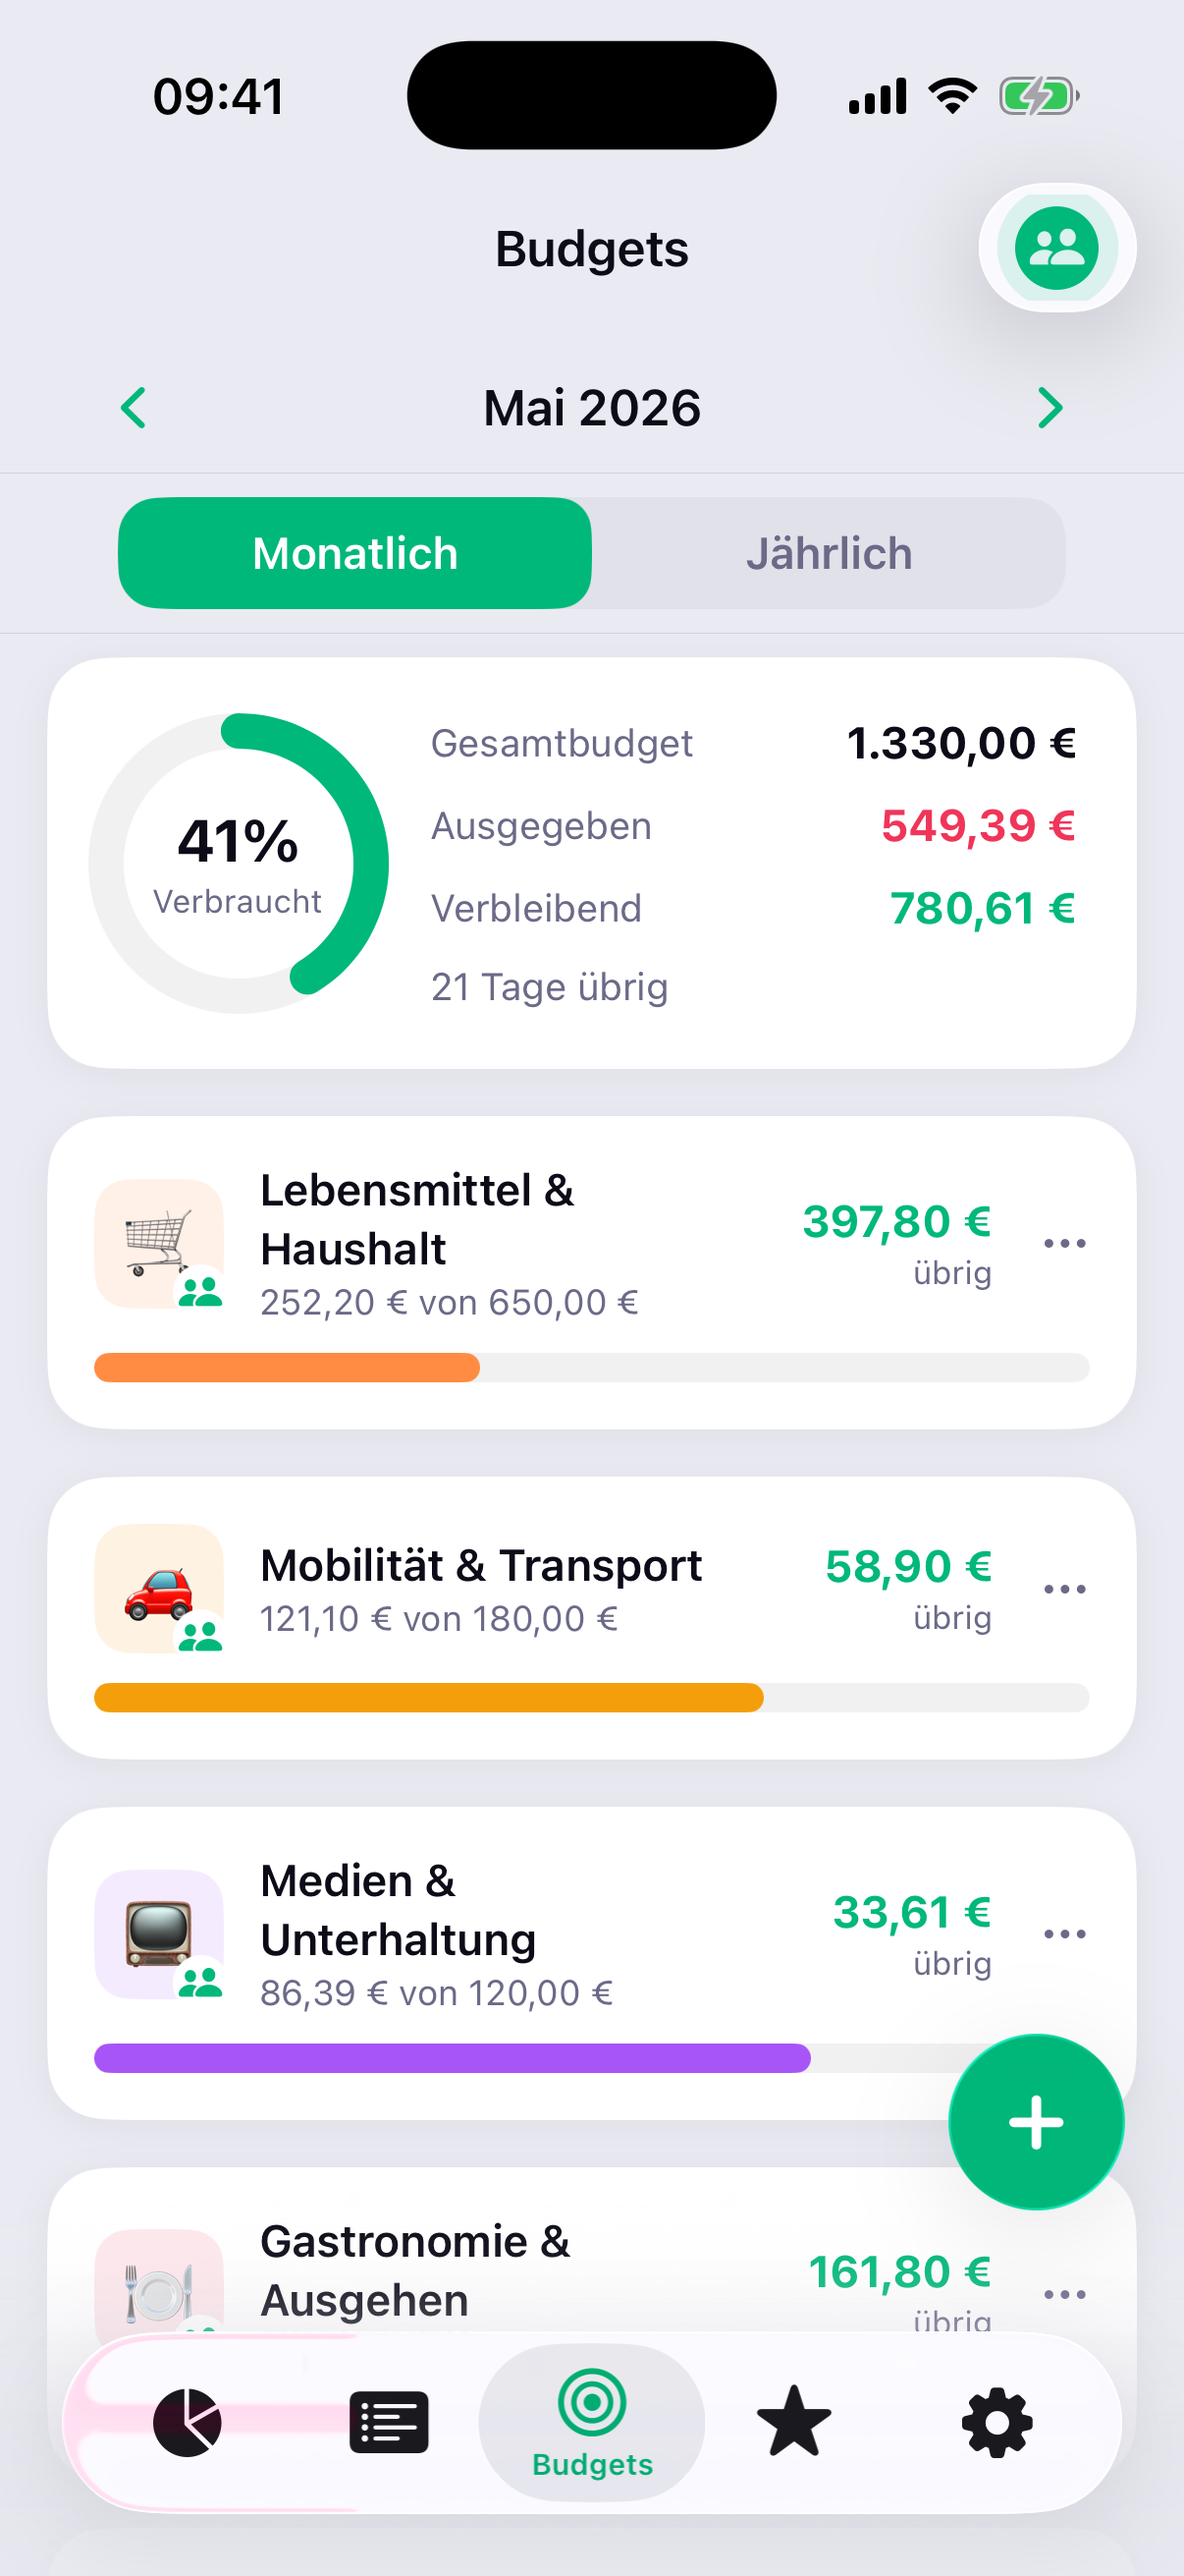
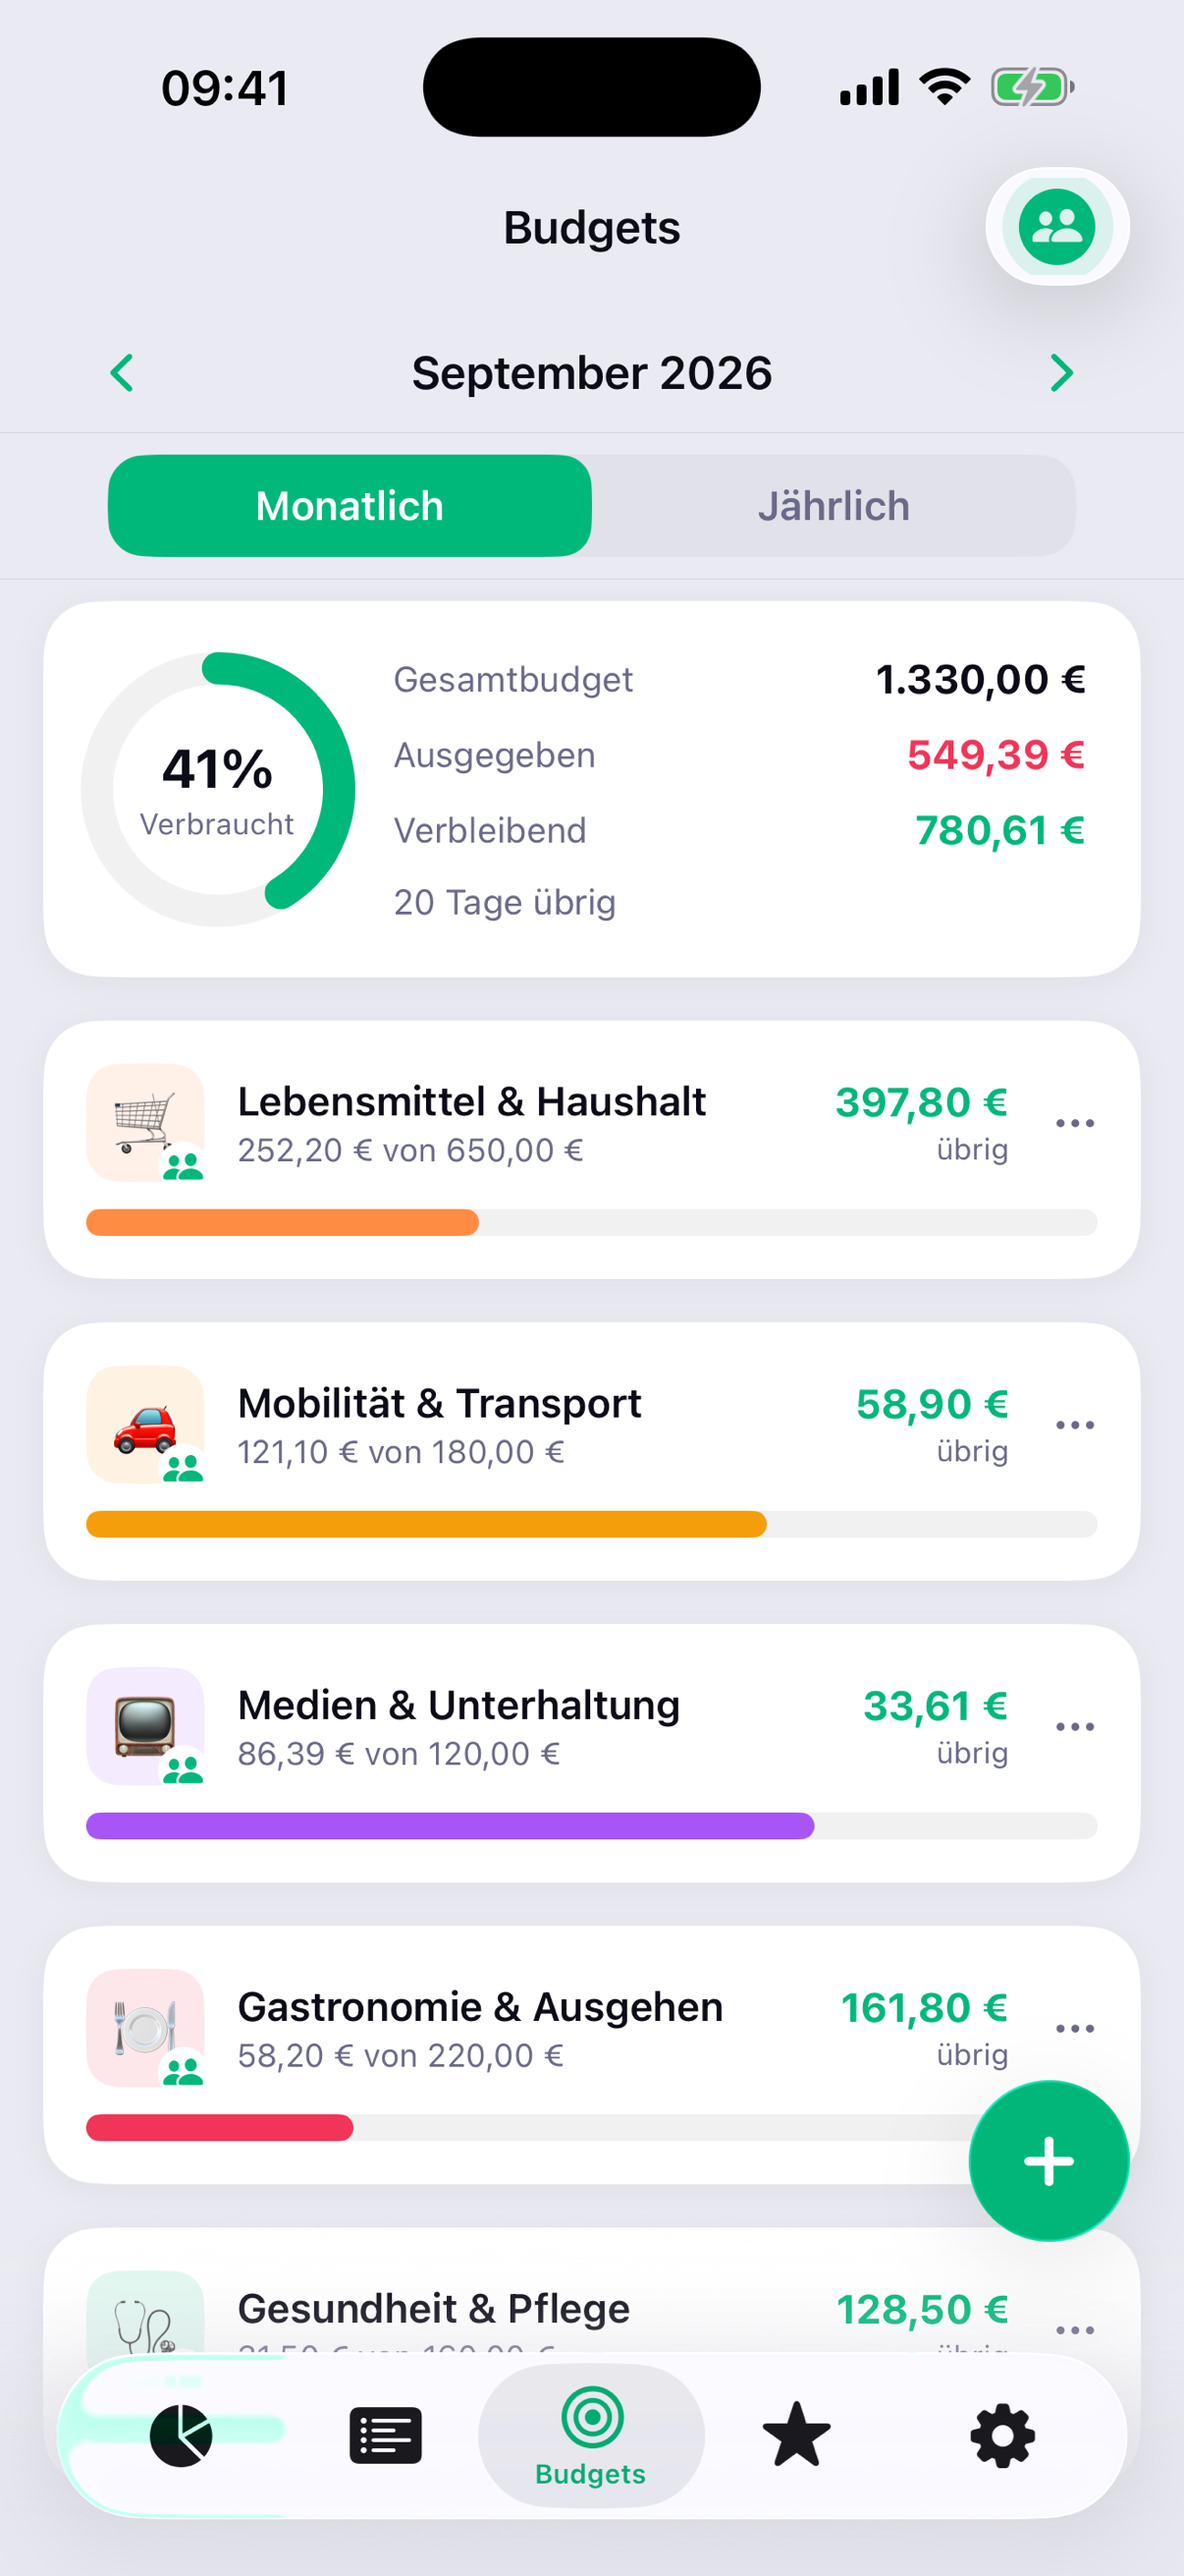
Finovo page: new screenshots, sharper positioning, fix iPhone-only FAQ
- Replace all 12 DE/EN screenshots with the September set (App Lock, corrected
  planned-transaction rows, 9,99 €/0,99 € paywall, consistent goal balances)
- Hero, three new feature cards (on-device intelligence, app lock, CSV in & out),
  two comparison rows, on-device sentence in the privacy section, plan bullets
- New FAQs: how the AI works, data export
- Fix FAQ claim: Finovo is iPhone-only (iOS 26+); iPad/Mac are on the roadmap

diff --git a/apps/finovo/index.html b/apps/finovo/index.html
@@ -1261,8 +1261,8 @@
     <span class="i18n-en">Your money, <span class="green">handled.</span></span>
   </h1>
   <p class="hero-sub">
-    <span class="i18n-de">Die smarte Haushalts-App für iOS. Ausgaben tracken, Budgets planen, gemeinsam sparen – privat gestaltet und DSGVO-orientiert.</span>
-    <span class="i18n-en">The smart personal-finance app for iOS. Track spending, plan budgets, save together — designed for privacy and GDPR-aware use.</span>
+    <span class="i18n-de">Die Haushalts-App für iOS, die ohne Bank-Login auskommt. Ausgaben tracken, Budgets planen, fair zu zweit teilen – mit Intelligenz auf dem Gerät statt in der Cloud, privat gestaltet und DSGVO-orientiert.</span>
+    <span class="i18n-en">The iOS budgeting app that never asks for your bank login. Track spending, plan budgets, split fairly as a couple — with intelligence on your device instead of in the cloud, designed for privacy and GDPR-aware use.</span>
   </p>
 
   <a href="#" class="appstore-btn">
@@ -1492,6 +1492,27 @@
       <h3><span class="i18n-de">Privatsphäre first</span><span class="i18n-en">Privacy first</span></h3>
       <p><span class="i18n-de">Keine Server, keine Analytik, keine Werbung. Deine Daten gehören dir.</span><span class="i18n-en">No servers, no analytics, no ads. Your data stays yours.</span></p>
     </div>
+    <div class="feature-card reveal">
+      <div class="feature-icon">
+        <svg width="22" height="22" viewBox="0 0 24 24" fill="none" stroke="#16A34A" stroke-width="2" stroke-linecap="round" stroke-linejoin="round"><rect x="4" y="4" width="16" height="16" rx="2" ry="2"/><rect x="9" y="9" width="6" height="6"/><line x1="9" y1="1" x2="9" y2="4"/><line x1="15" y1="1" x2="15" y2="4"/><line x1="9" y1="20" x2="9" y2="23"/><line x1="15" y1="20" x2="15" y2="23"/><line x1="20" y1="9" x2="23" y2="9"/><line x1="20" y1="14" x2="23" y2="14"/><line x1="1" y1="9" x2="4" y2="9"/><line x1="1" y1="14" x2="4" y2="14"/></svg>
+      </div>
+      <h3><span class="i18n-de">KI auf dem Gerät</span><span class="i18n-en">On-device intelligence</span></h3>
+      <p><span class="i18n-de">Monatseinblicke, Suche in natürlicher Sprache und Kategorievorschläge – mit Apple Intelligence direkt auf deinem iPhone. Kein Cloud-Modell, nichts verlässt das Gerät.</span><span class="i18n-en">Monthly insights, natural-language search and category suggestions — powered by Apple Intelligence right on your iPhone. No cloud model, nothing leaves the device.</span></p>
+    </div>
+    <div class="feature-card reveal">
+      <div class="feature-icon">
+        <svg width="22" height="22" viewBox="0 0 24 24" fill="none" stroke="#16A34A" stroke-width="2" stroke-linecap="round" stroke-linejoin="round"><path d="M12 22s8-4 8-10V5l-8-3-8 3v7c0 6 8 10 8 10z"/></svg>
+      </div>
+      <h3><span class="i18n-de">App-Sperre</span><span class="i18n-en">App lock</span></h3>
+      <p><span class="i18n-de">Face ID, Touch ID oder Gerätecode beim Öffnen – und ein Sichtschutz im App-Umschalter. Deine Zahlen bleiben deine Zahlen.</span><span class="i18n-en">Face ID, Touch ID or passcode on launch — plus a privacy shield in the app switcher. Your numbers stay yours.</span></p>
+    </div>
+    <div class="feature-card reveal">
+      <div class="feature-icon">
+        <svg width="22" height="22" viewBox="0 0 24 24" fill="none" stroke="#16A34A" stroke-width="2" stroke-linecap="round" stroke-linejoin="round"><path d="M14 2H6a2 2 0 0 0-2 2v16a2 2 0 0 0 2 2h12a2 2 0 0 0 2-2V8z"/><polyline points="14 2 14 8 20 8"/><line x1="16" y1="13" x2="8" y2="13"/><line x1="16" y1="17" x2="8" y2="17"/></svg>
+      </div>
+      <h3><span class="i18n-de">CSV rein & raus</span><span class="i18n-en">CSV in & out</span></h3>
+      <p><span class="i18n-de">Bankumsätze aus DKB, N26, Revolut & Co. importieren, Duplikate automatisch erkennen – und jederzeit alles als CSV oder Backup exportieren.</span><span class="i18n-en">Import bank exports from DKB, N26, Revolut and more with automatic duplicate detection — and export everything as CSV or a backup anytime.</span></p>
+    </div>
   </div>
 </div>
 
@@ -1538,13 +1559,23 @@
       <div class="col-us"><span class="compare-check">✓</span></div>
       <div class="col-them"><span class="compare-text"><span class="i18n-de">meist Abo</span><span class="i18n-en">often paywalled</span></span></div>
     </div>
+    <div class="compare-row">
+      <div class="col-feat"><span class="i18n-de">KI-Einblicke ohne Cloud-Modell</span><span class="i18n-en">AI insights without a cloud model</span></div>
+      <div class="col-us"><span class="compare-check">✓</span></div>
+      <div class="col-them"><span class="compare-text"><span class="i18n-de">Cloud-KI</span><span class="i18n-en">cloud AI</span></span></div>
+    </div>
+    <div class="compare-row">
+      <div class="col-feat"><span class="i18n-de">Alles jederzeit als CSV &amp; Backup exportierbar</span><span class="i18n-en">Export everything as CSV &amp; backup anytime</span></div>
+      <div class="col-us"><span class="compare-check">✓</span></div>
+      <div class="col-them"><span class="compare-text"><span class="i18n-de">teils</span><span class="i18n-en">partly</span></span></div>
+    </div>
   </div>
 </div>
 
 <!-- PRIVACY -->
 <div class="privacy-section">
   <h2 class="reveal"><span class="i18n-de">Deine Daten gehören dir.</span><span class="i18n-en">Your data stays yours.</span></h2>
-  <p class="reveal"><span class="i18n-de">Kein Server. Keine Analyse. Keine Werbung. Finovo speichert deine Daten lokal zuerst auf deinem iPhone; iCloud Sync nutzt nur deine persönliche iCloud.</span><span class="i18n-en">No servers. No analytics. No ads. Finovo stores your data local-first on your iPhone; iCloud Sync uses only your personal iCloud.</span></p>
+  <p class="reveal"><span class="i18n-de">Kein Server. Keine Analyse. Keine Werbung. Finovo speichert deine Daten lokal zuerst auf deinem iPhone; iCloud Sync nutzt nur deine persönliche iCloud. Auch die intelligenten Funktionen laufen mit Apple Intelligence direkt auf dem Gerät – ohne Cloud-Modell.</span><span class="i18n-en">No servers. No analytics. No ads. Finovo stores your data local-first on your iPhone; iCloud Sync uses only your personal iCloud. Even the intelligent features run with Apple Intelligence right on the device — no cloud model involved.</span></p>
   <div class="privacy-pills reveal">
     <div class="privacy-pill"><span class="pill-icon">🔒</span> <span class="i18n-de">Lokal zuerst</span><span class="i18n-en">Local-first</span></div>
     <div class="privacy-pill"><span class="pill-icon">✅</span> <span class="i18n-de">DSGVO-konform</span><span class="i18n-en">GDPR-compliant</span></div>
@@ -1573,6 +1604,9 @@
         <li><div class="check"><svg viewBox="0 0 10 10"><polyline points="1.5,5 4,7.5 8.5,2"/></svg></div><span class="i18n-de">Persönliche Sparziele verfolgen</span><span class="i18n-en">Personal savings goals</span></li>
         <li><div class="check"><svg viewBox="0 0 10 10"><polyline points="1.5,5 4,7.5 8.5,2"/></svg></div><span class="i18n-de">iCloud Sync (eigene Geräte)</span><span class="i18n-en">iCloud Sync across your devices</span></li>
         <li><div class="check"><svg viewBox="0 0 10 10"><polyline points="1.5,5 4,7.5 8.5,2"/></svg></div><span class="i18n-de">Jahresübersicht &amp; Prognose</span><span class="i18n-en">Yearly overview &amp; forecast</span></li>
+        <li><div class="check"><svg viewBox="0 0 10 10"><polyline points="1.5,5 4,7.5 8.5,2"/></svg></div><span class="i18n-de">KI-Einblicke auf dem Gerät (Apple Intelligence)</span><span class="i18n-en">On-device AI insights (Apple Intelligence)</span></li>
+        <li><div class="check"><svg viewBox="0 0 10 10"><polyline points="1.5,5 4,7.5 8.5,2"/></svg></div><span class="i18n-de">App-Sperre mit Face ID / Touch ID</span><span class="i18n-en">App lock with Face ID / Touch ID</span></li>
+        <li><div class="check"><svg viewBox="0 0 10 10"><polyline points="1.5,5 4,7.5 8.5,2"/></svg></div><span class="i18n-de">CSV-Import &amp; -Export</span><span class="i18n-en">CSV import &amp; export</span></li>
       </ul>
     </div>
 
@@ -1618,9 +1652,17 @@
       <div class="faq-body"><span class="i18n-de">Ja, jederzeit direkt in den iOS-Abo-Einstellungen. Bereits erfasste Daten bleiben erhalten, nur die Partner-Funktionen werden deaktiviert.</span><span class="i18n-en">Yes, anytime directly in your iOS subscription settings. Your data stays; only Partner features are disabled.</span></div>
     </details>
     <details class="faq-item">
-      <summary><span class="i18n-de">Läuft Finovo auf iPad und Mac?</span><span class="i18n-en">Does Finovo run on iPad and Mac?</span></summary>
-      <div class="faq-body"><span class="i18n-de">Ja. Finovo ist eine Universal-App für iPhone, iPad und Mac (Apple Silicon) mit iCloud Sync auf allen deinen Geräten.</span><span class="i18n-en">Yes. Finovo is a universal app for iPhone, iPad and Mac (Apple Silicon) with iCloud Sync across all your devices.</span></div>
-    </details>
+  <summary><span class="i18n-de">Läuft Finovo auf iPad und Mac?</span><span class="i18n-en">Does Finovo run on iPad and Mac?</span></summary>
+  <div class="faq-body"><span class="i18n-de">Finovo ist für das iPhone entwickelt (iOS 26 oder neuer). iPad und Mac stehen auf der Roadmap.</span><span class="i18n-en">Finovo is built for iPhone (iOS 26 or later). iPad and Mac are on the roadmap.</span></div>
+</details>
+<details class="faq-item">
+  <summary><span class="i18n-de">Wie funktionieren die KI-Funktionen?</span><span class="i18n-en">How do the AI features work?</span></summary>
+  <div class="faq-body"><span class="i18n-de">Monatseinblicke, Suche in natürlicher Sprache, Kategorievorschläge und das Bereinigen von Händlernamen laufen mit Apple Intelligence direkt auf deinem iPhone. Es wird kein Cloud-Modell angesprochen und nichts übertragen. Auf Geräten ohne Apple Intelligence – oder wenn du die Funktionen in den Einstellungen ausschaltest – nutzt Finovo einfache, regelbasierte Alternativen.</span><span class="i18n-en">Monthly insights, natural-language search, category suggestions and merchant-name cleanup run with Apple Intelligence right on your iPhone. No cloud model is called and nothing is transmitted. On devices without Apple Intelligence — or if you switch the features off in Settings — Finovo falls back to simple rule-based alternatives.</span></div>
+</details>
+<details class="faq-item">
+  <summary><span class="i18n-de">Kann ich meine Daten exportieren?</span><span class="i18n-en">Can I export my data?</span></summary>
+  <div class="faq-body"><span class="i18n-de">Ja, jederzeit: als vollständiges Backup (JSON) zum Wiederherstellen und als CSV-Tabelle für Excel, Numbers oder Google Sheets. Du kannst außerdem alle Daten in der App endgültig löschen.</span><span class="i18n-en">Yes, anytime: as a full backup (JSON) for restoring, and as a CSV spreadsheet for Excel, Numbers or Google Sheets. You can also permanently delete all data from within the app.</span></div>
+</details>
   </div>
   <div class="faq-footer">
     <span class="i18n-de">Noch Fragen? <a href="https://lukeapp.de/apps/finovo/support/">Zum Support →</a></span>
